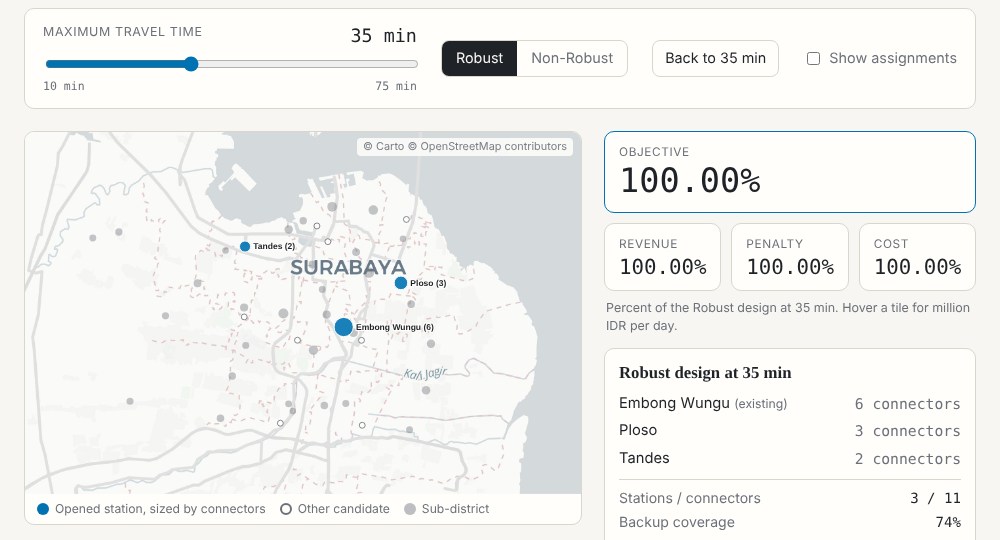
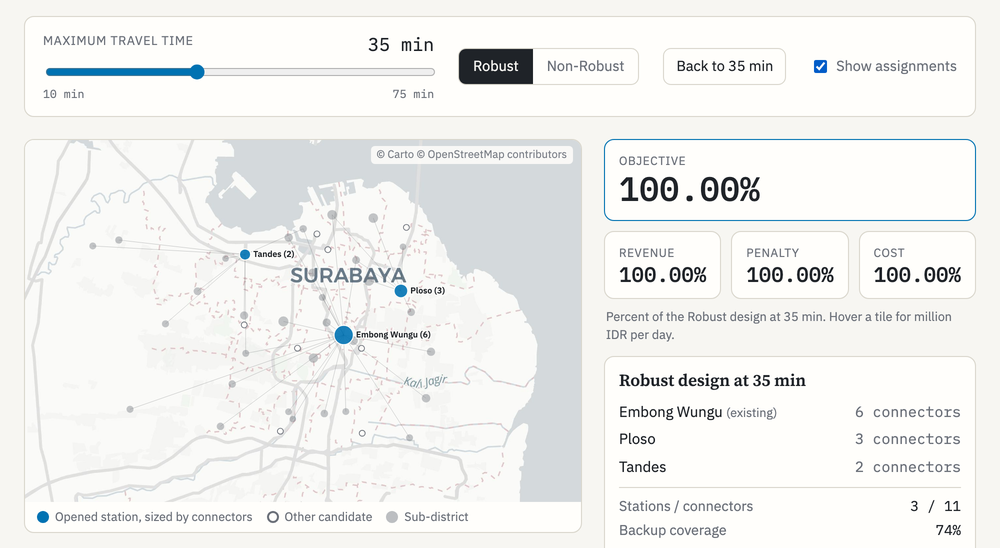
Show assignment lines in the README preview GIF
- scripts/make_preview.py: new, reproducible capture of the README previews.
  Drives results/interactive.html in headless Chromium with "Show assignments"
  ticked, sweeps d_max 10 -> 75 -> 35 min (extra frames at the 28/29-min
  infeasibility edge and the 40/41-min switch where the Robust design drops
  Tandes), crops to the control strip and map, and writes
  results/figures/interactive_preview.gif and .png. --chromium points at an
  existing Chromium build when Playwright's own is not installed.
- results/figures/interactive_preview.{gif,png}: regenerated; the vehicle
  assignment lines now show how coverage shifts between stations as the
  maximum travel time varies. The page itself still opens with assignments off.
- README: note how the preview is produced and list make_preview.py in the
  repository layout.

diff --git a/scripts/make_preview.py b/scripts/make_preview.py
@@ -1,0 +1,70 @@
+"""Render the README previews of ``results/interactive.html``.
+
+Drives the page in headless Chromium with "Show assignments" ticked, moves the slider
+over the maximum travel time and writes ``results/figures/interactive_preview.gif``
+(and a static ``.png`` at 35 min).  Needs Playwright, which the package itself does not:
+
+    uv run --with playwright --with pillow python scripts/make_preview.py
+"""
+from __future__ import annotations
+
+import argparse
+import io
+from pathlib import Path
+
+from PIL import Image
+from playwright.sync_api import sync_playwright
+
+# 10 -> 75 -> 35 min, with extra frames at the infeasible edge (28/29) and where the
+# Robust design drops Tandes (40/41).
+UP = [10, 15, 20, 25, 28, 29, 30, 35, 40, 41, 45, 50, 55, 60, 65, 70, 75]
+DOWN = [70, 65, 60, 55, 50, 45, 41, 40, 35]
+HOLD = {10: 3, 29: 2, 35: 3, 41: 2, 75: 3}
+
+
+def main() -> None:
+    ap = argparse.ArgumentParser(description=__doc__.split("\n")[0])
+    ap.add_argument("--page", type=Path, default=Path("results/interactive.html"))
+    ap.add_argument("--out", type=Path, default=Path("results/figures/interactive_preview"))
+    ap.add_argument("--width", type=int, default=800, help="GIF width, px")
+    ap.add_argument("--ms", type=int, default=260, help="frame duration, ms")
+    ap.add_argument("--chromium", help="path to a Chromium binary, if Playwright's own is not installed")
+    args = ap.parse_args()
+
+    frames: list[Image.Image] = []
+    with sync_playwright() as p:
+        browser = p.chromium.launch(executable_path=args.chromium)
+        page = browser.new_page(viewport={"width": 1000, "height": 900}, device_scale_factor=2)
+        page.goto(args.page.resolve().as_uri())
+        page.wait_for_load_state("networkidle")
+        page.check("#showFlows")
+        # controls strip down to the bottom of the map, full page width
+        top = page.eval_on_selector(".controls", "el => el.getBoundingClientRect().top + scrollY")
+        bottom = page.eval_on_selector(".map", "el => el.getBoundingClientRect().bottom + scrollY")
+        clip = {"x": 0, "y": top - 16, "width": 1000, "height": bottom - top + 32}
+
+        def shot(d: int) -> Image.Image:
+            page.eval_on_selector(
+                "#dmax", "(el, v) => { el.value = v; el.dispatchEvent(new Event('input', {bubbles: true})); }", d)
+            page.wait_for_timeout(120)
+            return Image.open(io.BytesIO(page.screenshot(clip=clip))).convert("RGB")
+
+        for d in UP + DOWN:
+            im = shot(d)
+            frames += [im] * HOLD.get(d, 1)
+        still = shot(35)
+        browser.close()
+
+    w0, h0 = still.size
+    still.resize((1000, round(h0 * 1000 / w0)), Image.LANCZOS).save(args.out.with_suffix(".png"), optimize=True)
+    h = round(h0 * args.width / w0)
+    small = [f.resize((args.width, h), Image.LANCZOS) for f in frames]
+    pal = small[len(small) // 2].quantize(colors=128, method=Image.Quantize.MEDIANCUT)
+    gif = [f.quantize(palette=pal, dither=Image.Dither.NONE) for f in small]
+    gif[0].save(args.out.with_suffix(".gif"), save_all=True, append_images=gif[1:],
+                duration=args.ms, loop=0, optimize=True)
+    print(f"wrote {args.out}.gif ({len(gif)} frames) and {args.out}.png")
+
+
+if __name__ == "__main__":
+    main()

diff --git a/README.md b/README.md
@@ -170,10 +170,12 @@ west from Embong Wungu alone.
 
 GitHub shows `results/interactive.html` as source, so open the file locally, or serve it
 from any static host (GitHub Pages: Settings, Pages, deploy from `main`, then
-`/results/interactive.html`). The preview above is `results/figures/interactive_preview.gif`.
+`/results/interactive.html`). The preview above is `results/figures/interactive_preview.gif`,
+captured with "Show assignments" ticked by `scripts/make_preview.py` (needs Playwright).
 
 ```bash
 python scripts/sweep_travel_time.py && python scripts/build_interactive.py
+uv run --with playwright --with pillow python scripts/make_preview.py   # optional: redraw the GIF
 ```
 
 ## Modelling notes
@@ -219,7 +221,8 @@ exceed 2.2%. The numbers in this repository are the ones the code produces.
 ```
 data/            Surabaya case: stations, demand, travel times, parameters, basemap
 src/evcharging/  the package (data, model, simulate, plots, basemap)
-scripts/         reproduce.py, fetch_basemap.py, sweep_travel_time.py, build_interactive.py
+scripts/         reproduce.py, fetch_basemap.py, sweep_travel_time.py,
+                 build_interactive.py, make_preview.py
 examples/        quickstart.py
 results/         committed outputs of reproduce.py
 tests/           pytest suite
